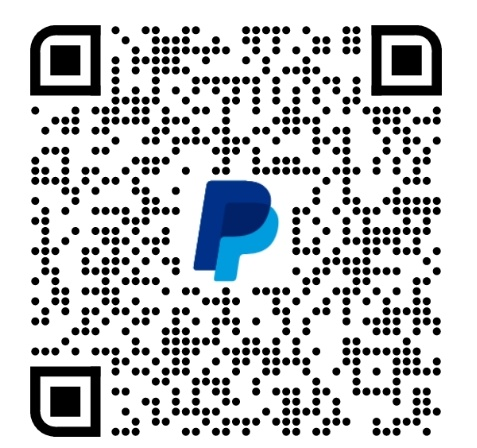
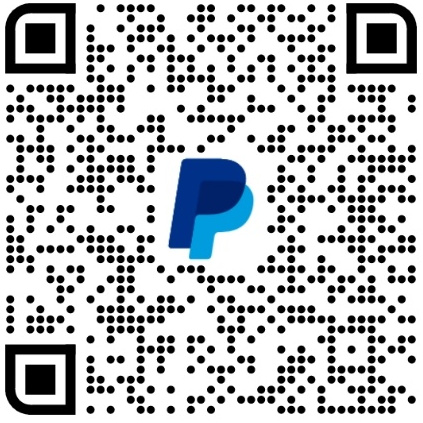
Updated Tip paypal link

diff --git a/index.html b/index.html
@@ -757,11 +757,10 @@
 		<div class="col-four tab-full">
 
 			<div class="icon">
-				<i><img src="images/paypal.jpg" alt=" " width="150" height="150"></i>
+				<i><img src="images/paypal.jpg" alt=" " width="175" height="175"></i>
 			</div>
 
-			<h5>Buy me a Coffee!</h5>
-			<h5>Danke Schön! &#128519</h5>
+			<h5>Buy me a Coffee! Danke Schön! &#128519</h5>
 
 		</div>
    		
